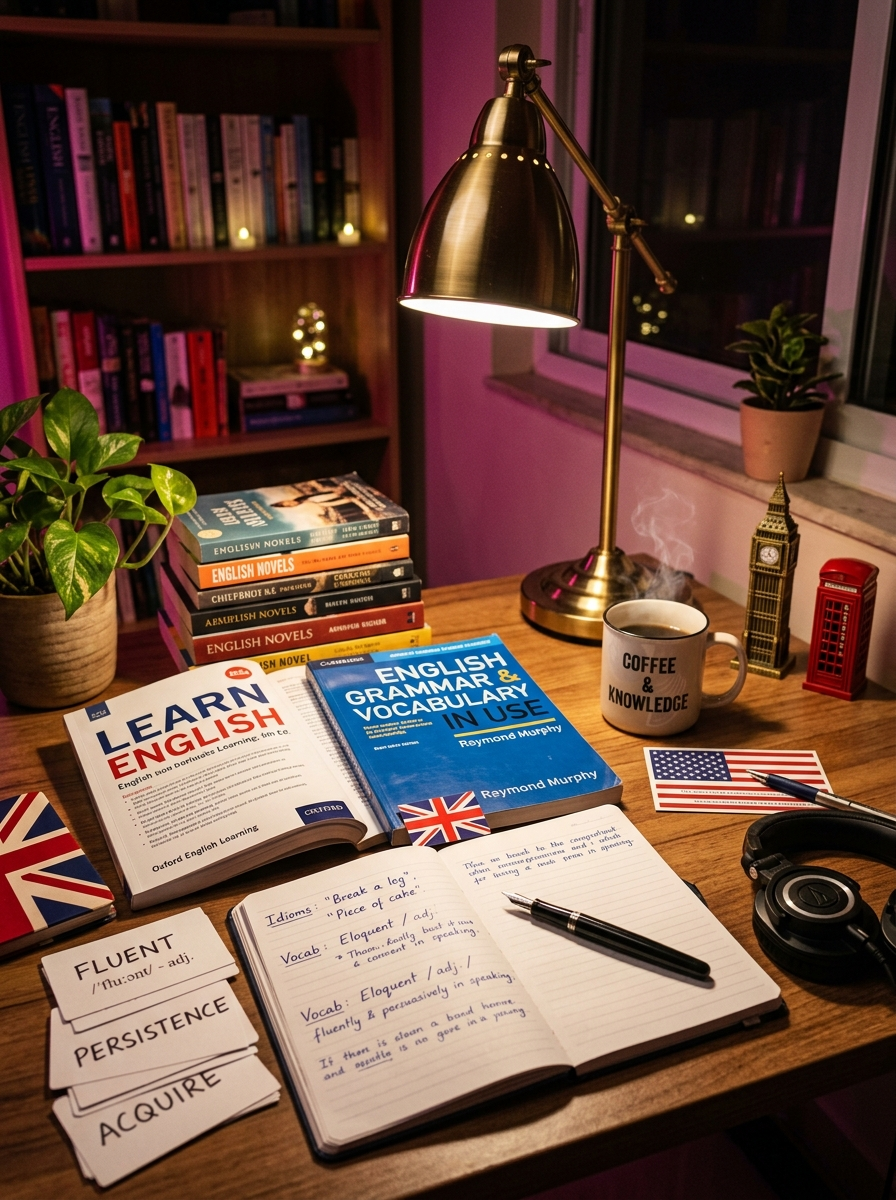
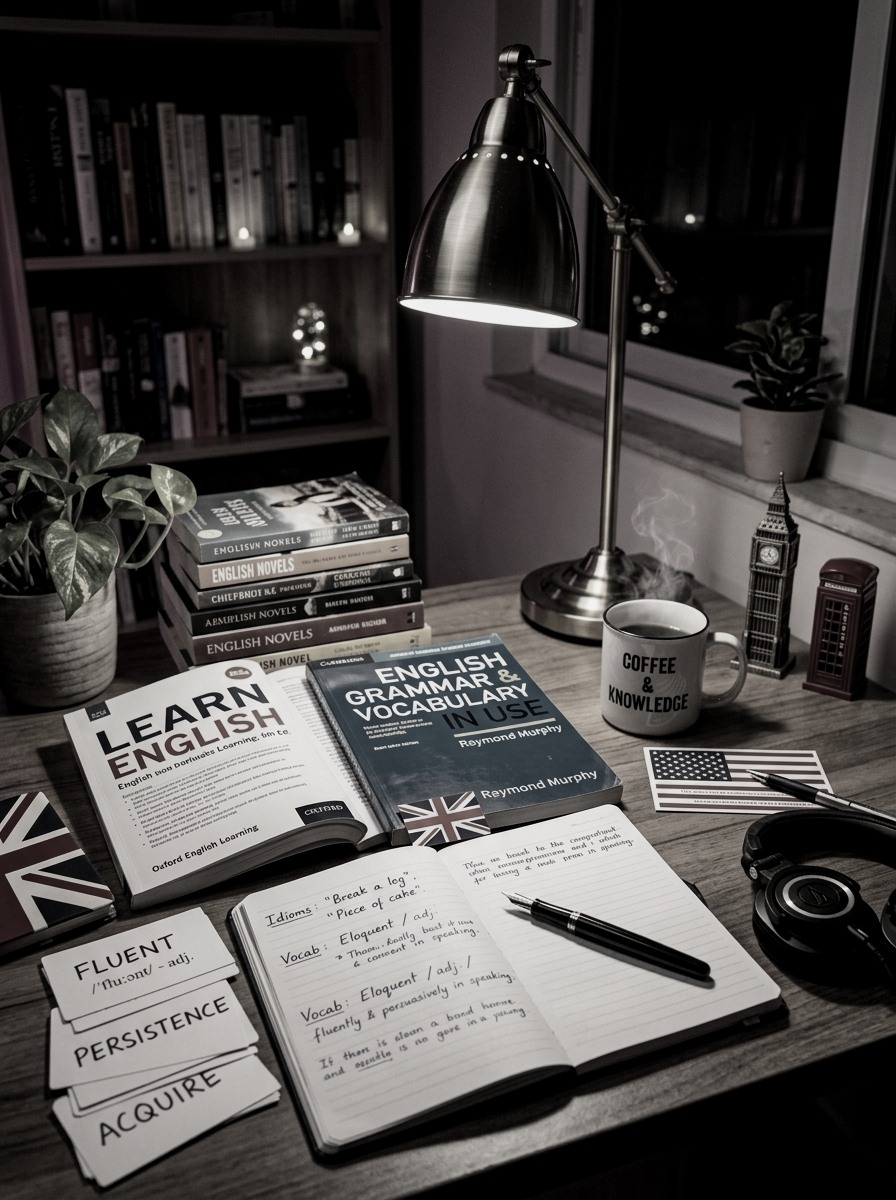
feat: native CSV import/export support and desaturated login background

diff --git a/client/src/lib/csvService.ts b/client/src/lib/csvService.ts
@@ -1,3 +1,7 @@
+import { Platform } from 'react-native';
+import * as FileSystem from 'expo-file-system';
+import * as Sharing from 'expo-sharing';
+import * as DocumentPicker from 'expo-document-picker';
 import { WordItem, WordLevel, WordStatus } from '../types';
 
 /**
@@ -85,6 +89,124 @@ export function downloadCsvFile(filename: string, content: string): void {
   link.click();
   document.body.removeChild(link);
   URL.revokeObjectURL(url);
+}
+
+/**
+ * Exports a CSV file across both Web (download) and Mobile (native share / save sheet)
+ */
+export async function exportCsvFileAsync(
+  filename: string,
+  content: string
+): Promise<{ success: boolean; message?: string }> {
+  const finalName = filename.toLowerCase().endsWith('.csv') ? filename : `${filename}.csv`;
+
+  // 1. Web
+  if (Platform.OS === 'web' && typeof document !== 'undefined') {
+    downloadCsvFile(finalName, content);
+    return { success: true };
+  }
+
+  // 2. Mobile (Android & iOS)
+  try {
+    const dir = FileSystem.cacheDirectory || FileSystem.documentDirectory;
+    const fileUri = `${dir}${finalName}`;
+    await FileSystem.writeAsStringAsync(fileUri, content, {
+      encoding: FileSystem.EncodingType.UTF8,
+    });
+
+    const isAvailable = await Sharing.isAvailableAsync();
+    if (isAvailable) {
+      await Sharing.shareAsync(fileUri, {
+        mimeType: 'text/csv',
+        dialogTitle: 'Exportar Vocabulario PronounceIt',
+        UTI: 'public.comma-separated-values-text',
+      });
+      return { success: true };
+    }
+
+    return { success: true, message: `Guardado en: ${fileUri}` };
+  } catch (err: any) {
+    console.error('Error exportando CSV en móvil:', err);
+    return { success: false, message: err?.message || 'Error al exportar archivo CSV' };
+  }
+}
+
+/**
+ * Opens document picker to select and read a CSV file on Mobile or Web
+ */
+export async function pickCsvFileAsync(): Promise<{
+  success: boolean;
+  content?: string;
+  fileName?: string;
+  error?: string;
+}> {
+  try {
+    const res = await DocumentPicker.getDocumentAsync({
+      type: ['text/csv', 'text/comma-separated-values', 'text/*', '*/*'],
+      copyToCacheDirectory: true,
+    });
+
+    if (res.canceled || !res.assets || res.assets.length === 0) {
+      return { success: false };
+    }
+
+    const asset = res.assets[0];
+    const fileName = asset.name || 'vocabulario.csv';
+
+    // On Web if file object is provided
+    if (asset.file && typeof (asset.file as any).text === 'function') {
+      const text = await (asset.file as any).text();
+      return { success: true, content: text, fileName };
+    }
+
+    if (asset.uri) {
+      if (Platform.OS === 'web') {
+        const resp = await fetch(asset.uri);
+        const text = await resp.text();
+        return { success: true, content: text, fileName };
+      } else {
+        try {
+          const text = await FileSystem.readAsStringAsync(asset.uri, {
+            encoding: FileSystem.EncodingType.UTF8,
+          });
+          return { success: true, content: text, fileName };
+        } catch {
+          const resp = await fetch(asset.uri);
+          const text = await resp.text();
+          return { success: true, content: text, fileName };
+        }
+      }
+    }
+
+    return { success: false, error: 'No se pudo leer el archivo seleccionado.' };
+  } catch (err: any) {
+    console.warn('DocumentPicker fallback:', err);
+
+    if (Platform.OS === 'web' && typeof document !== 'undefined') {
+      return new Promise((resolve) => {
+        const input = document.createElement('input');
+        input.type = 'file';
+        input.accept = '.csv,text/csv,text/plain';
+        input.onchange = (e: any) => {
+          const file = e.target?.files?.[0];
+          if (!file) {
+            resolve({ success: false });
+            return;
+          }
+          const reader = new FileReader();
+          reader.onload = (event) => {
+            const content = event.target?.result as string;
+            resolve({ success: true, content, fileName: file.name });
+          };
+          reader.onerror = () => resolve({ success: false, error: 'Error leyendo archivo' });
+          reader.readAsText(file, 'utf-8');
+        };
+        input.click();
+      });
+    }
+
+    return { success: false, error: err?.message || 'Error seleccionando archivo' };
+  }
 }
 
 /**

diff --git a/client/src/components/workspace/ExportImportModal.tsx b/client/src/components/workspace/ExportImportModal.tsx
@@ -13,7 +13,7 @@ import { X, Download, Upload, Copy, Check, FileSpreadsheet, FolderUp } from 'luc
 import { WordItem } from '../../types';
 import { THEME } from '../../theme';
 import { ConfirmModal } from '../common/ConfirmModal';
-import { wordsToCsv, parseCsvToWords, downloadCsvFile } from '../../lib/csvService';
+import { wordsToCsv, parseCsvToWords, exportCsvFileAsync, pickCsvFileAsync } from '../../lib/csvService';
 
 interface ExportImportModalProps {
   isOpen: boolean;
@@ -42,13 +42,24 @@ export const ExportImportModal: React.FC<ExportImportModalProps> = ({
 
   const exportCsvString = wordsToCsv(words, delimiter);
 
-  const handleDownload = () => {
-    downloadCsvFile('pronounceit_vocabulario.csv', exportCsvString);
-    setStatusModal({
-      title: '¡Descarga Iniciada!',
-      message: `Se ha descargado el archivo "pronounceit_vocabulario.csv" con ${words.length} palabras separadas en columnas individuales.`,
-      variant: 'success',
-    });
+  const handleDownload = async () => {
+    const res = await exportCsvFileAsync('pronounceit_vocabulario.csv', exportCsvString);
+    if (res.success) {
+      setStatusModal({
+        title: '¡Exportación Exitosa!',
+        message:
+          Platform.OS === 'web'
+            ? `Se ha descargado el archivo "pronounceit_vocabulario.csv" con ${words.length} palabras separadas en columnas individuales.`
+            : `Se ha generado el archivo CSV con ${words.length} palabras. Puedes guardarlo en tus Archivos o compartirlo.`,
+        variant: 'success',
+      });
+    } else {
+      setStatusModal({
+        title: 'Error de Exportación',
+        message: res.message || 'No se pudo generar el archivo CSV.',
+        variant: 'danger',
+      });
+    }
   };
 
   const handleCopy = () => {
@@ -59,25 +70,19 @@ export const ExportImportModal: React.FC<ExportImportModalProps> = ({
     setTimeout(() => setIsCopied(false), 2000);
   };
 
-  const handlePickFile = () => {
-    if (Platform.OS === 'web' && typeof document !== 'undefined') {
-      const input = document.createElement('input');
-      input.type = 'file';
-      input.accept = '.csv,text/csv';
-      input.onchange = (e: any) => {
-        const file = e.target?.files?.[0];
-        if (!file) return;
-        const reader = new FileReader();
-        reader.onload = (event) => {
-          const content = event.target?.result as string;
-          if (content) {
-            setImportCsv(content);
-            setUploadedFileName(file.name);
-          }
-        };
-        reader.readAsText(file, 'utf-8');
-      };
-      input.click();
+  const handlePickFile = async () => {
+    const res = await pickCsvFileAsync();
+    if (res.success && res.content) {
+      setImportCsv(res.content);
+      if (res.fileName) {
+        setUploadedFileName(res.fileName);
+      }
+    } else if (res.error) {
+      setStatusModal({
+        title: 'Error al abrir archivo',
+        message: res.error,
+        variant: 'danger',
+      });
     }
   };
 

diff --git a/client/src/components/workspace/SettingsView.tsx b/client/src/components/workspace/SettingsView.tsx
@@ -17,6 +17,7 @@ import {
   Sparkles,
   Check,
   Edit2,
+  FileSpreadsheet,
 } from 'lucide-react-native';
 import { UserProfile } from '../../types';
 import { vocabService } from '../../lib/vocabularyStore';
@@ -29,12 +30,14 @@ interface SettingsViewProps {
   currentUser: UserProfile | null;
   onLogout: () => void;
   onOpenEditProfile?: () => void;
+  onOpenExportModal?: () => void;
 }
 
 export const SettingsView: React.FC<SettingsViewProps> = ({
   currentUser,
   onLogout,
   onOpenEditProfile,
+  onOpenExportModal,
 }) => {
   const { isPhone } = useResponsive();
   const [audioSettings, setAudioSettings] = useState(() => vocabService.getAudioSettings());
@@ -181,6 +184,24 @@ export const SettingsView: React.FC<SettingsViewProps> = ({
           </TouchableOpacity>
         </View>
       </View>
+
+      {/* Backup / CSV Import-Export */}
+      {onOpenExportModal && (
+        <View style={styles.card}>
+          <Text style={styles.sectionTitle}>Copia de Seguridad y Datos</Text>
+          <Text style={styles.sectionSubtitle}>
+            Exporta tus palabras a un archivo .CSV compatible con Excel o importa nuevo vocabulario a tu cuenta.
+          </Text>
+          <TouchableOpacity
+            style={styles.exportDataBtn}
+            onPress={onOpenExportModal}
+            activeOpacity={0.85}
+          >
+            <FileSpreadsheet size={16} color="#ffffff" style={{ marginRight: 8 }} />
+            <Text style={styles.exportDataBtnText}>Exportar / Importar Vocabulario (.CSV)</Text>
+          </TouchableOpacity>
+        </View>
+      )}
 
       {/* Logout button */}
       <TouchableOpacity
@@ -394,6 +415,25 @@ const styles = StyleSheet.create({
     justifyContent: 'center',
   },
   saveKeyText: {
+    color: '#ffffff',
+    fontSize: 13,
+    fontWeight: '700',
+  },
+  exportDataBtn: {
+    flexDirection: 'row',
+    alignItems: 'center',
+    justifyContent: 'center',
+    backgroundColor: '#7c3aed',
+    paddingVertical: 12,
+    borderRadius: THEME.radius.md,
+    marginTop: 10,
+    shadowColor: '#7c3aed',
+    shadowOffset: { width: 0, height: 4 },
+    shadowOpacity: 0.35,
+    shadowRadius: 8,
+    elevation: 3,
+  },
+  exportDataBtnText: {
     color: '#ffffff',
     fontSize: 13,
     fontWeight: '700',

diff --git a/client/src/components/auth/LoginView.tsx b/client/src/components/auth/LoginView.tsx
@@ -236,6 +236,7 @@ export const LoginView: React.FC<LoginViewProps> = ({ onSuccess }) => {
       <ImageBackground
         source={require('../../assets/login_hero.jpg')}
         style={styles.bgImage}
+        imageStyle={styles.bgImageInner}
         resizeMode="cover"
       >
         <View style={styles.overlay} />
@@ -628,10 +629,14 @@ const styles = StyleSheet.create({
     flex: 1,
     width: '100%',
     height: '100%',
+    backgroundColor: THEME.colors.bgDark,
+  },
+  bgImageInner: {
+    opacity: 0.28,
   },
   overlay: {
     ...StyleSheet.absoluteFillObject,
-    backgroundColor: 'rgba(15, 12, 24, 0.92)',
+    backgroundColor: 'rgba(8, 6, 15, 0.78)',
   },
   scrollContent: {
     flexGrow: 1,

diff --git a/client/src/App.tsx b/client/src/App.tsx
@@ -254,6 +254,7 @@ function MainApp() {
                 currentUser={currentUser}
                 onLogout={handleLogout}
                 onOpenEditProfile={() => setIsEditProfileOpen(true)}
+                onOpenExportModal={() => setIsExportModalOpen(true)}
               />
             </View>
           )}
